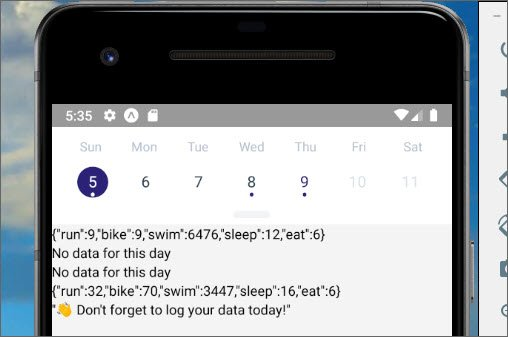
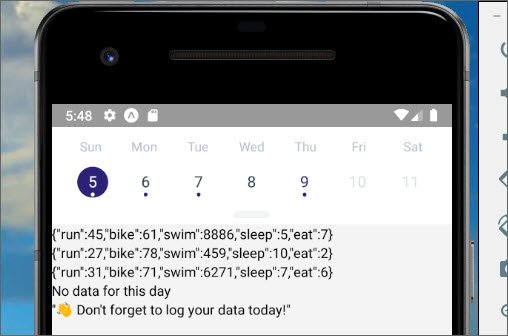
docs: Add 3.6 Calendar Component

diff --git a/docs/course-notes/react-native.md b/docs/course-notes/react-native.md
@@ -2515,10 +2515,61 @@ const mapStateToProps = entries => ({ entries });
 export default connect(mapStateToProps)(History);
 ```
 
-<!-- ### 3.6 Calendar Component
+### 3.6 Calendar Component
 
 [![rn43](../assets/images/rn43-small.jpg)](../assets/images/rn43.jpg)<br>
 <span class="center bold">Calendar Control</span>
 
+The fist thing to do is add the UdaciFitness Calendar Component.
+
+```bash
+npm i --save udacifitness-calendar
+```
+
+#### 3.6.1 Update History Component
+Next we add the component to History. This is located in '/components/History.js'.
+
+```jsx
+// History.js
+...
+import UdaciFitnessCalendar from 'udacifitness-calendar';
+
+export class History extends Component {
+  ...
+  renderItem = ({ today, ...metrics }, formattedDate, key) => (
+    <View>
+      {today ? (
+        <Text>{JSON.stringify(today)}</Text>
+      ) : (
+        <Text>{JSON.stringify(metrics)}</Text>
+      )}
+    </View>
+  );
+  renderEmptyDate(formattedDate) {
+    return (
+      <View>
+        <Text>No data for this day</Text>
+      </View>
+    );
+  }
+  render() {
+    const { entries } = this.props;
+    return (
+      <UdaciFitnessCalendar
+        items={entries}
+        renderItem={this.renderItem}
+        renderEmptyDate={this.renderEmptyDate}
+      />
+    );
+  }
+}
+...
+```
+
 [![rn44](../assets/images/rn44-small.jpg)](../assets/images/rn44.jpg)<br>
-<span class="center bold">Calendar Control with data</span> -->
+<span class="center bold">Calendar Control with data</span>
+
+<!-- ### 3.7 History Styling
+
+[![rn45](../assets/images/rn45-small.jpg)](../assets/images/rn45.jpg)<br>
+<span class="center bold">Styled entries</span> -->
